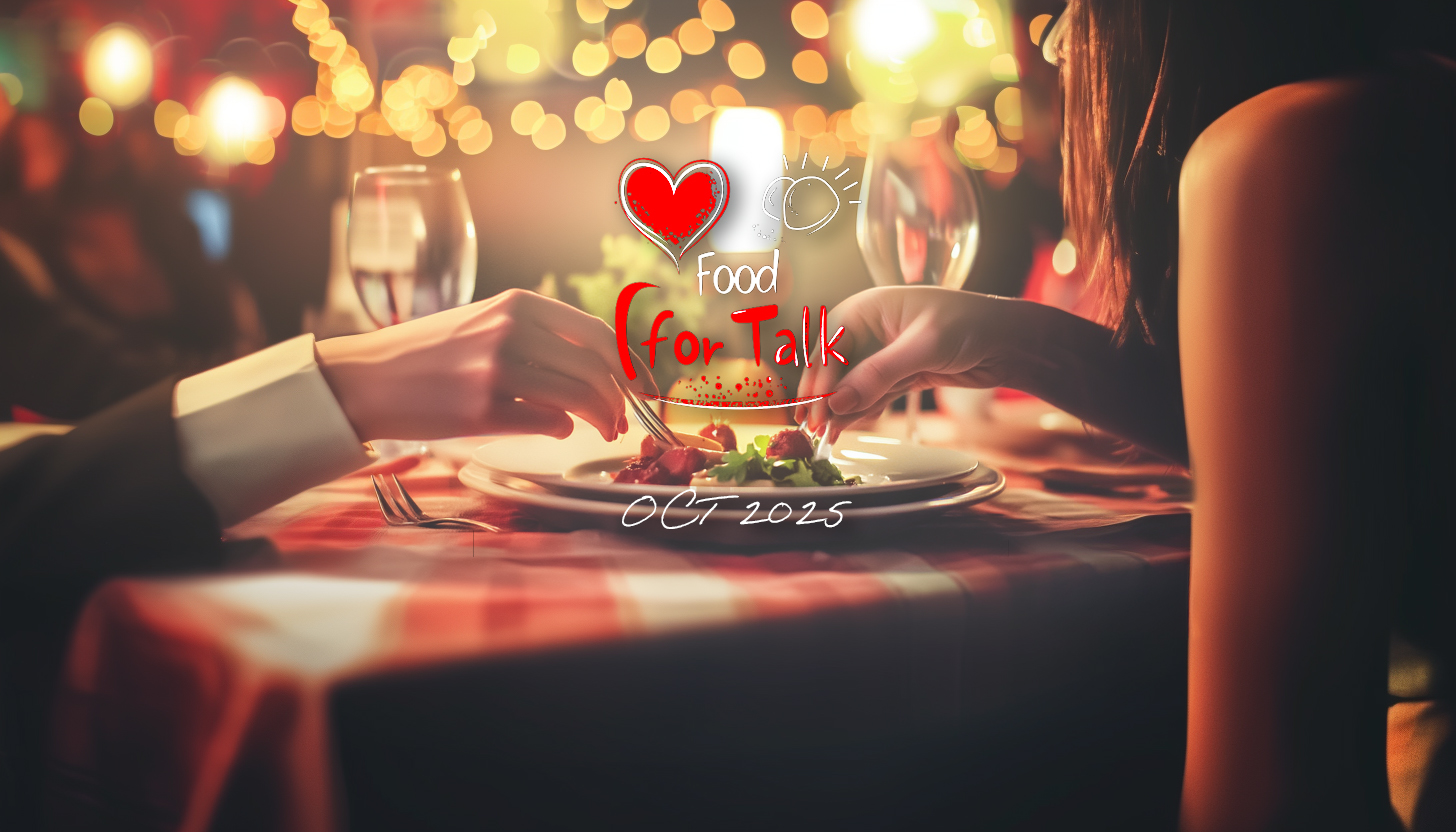
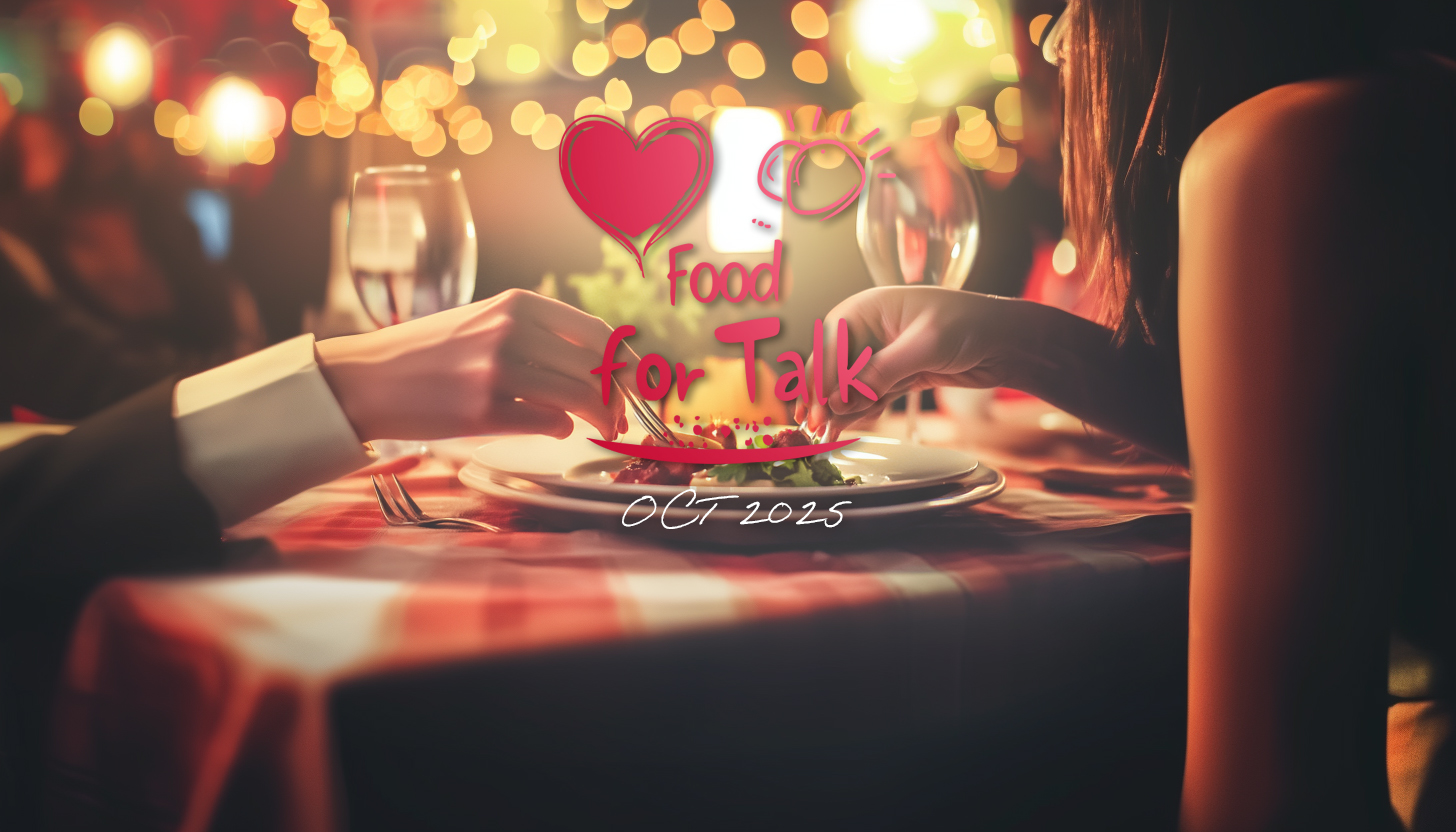
feat: Reduce hero image overlay opacity to show full color

Changed region(s): [[0.3709, 0.125, 0.6181, 0.5625]]

diff --git a/client/src/pages/HomePage.js b/client/src/pages/HomePage.js
@@ -165,8 +165,8 @@ const HomePage = () => {
               alt="Food for Talk Event"
               className="w-full h-full object-cover"
             />
-            {/* Dark overlay with gradient */}
-            <div className="absolute inset-0 bg-gradient-to-t from-black/80 via-black/50 to-black/30"></div>
+            {/* Light overlay with gradient - only at bottom for button visibility */}
+            <div className="absolute inset-0 bg-gradient-to-t from-black/40 via-transparent to-transparent"></div>
           </div>
           
           {/* Content */}
